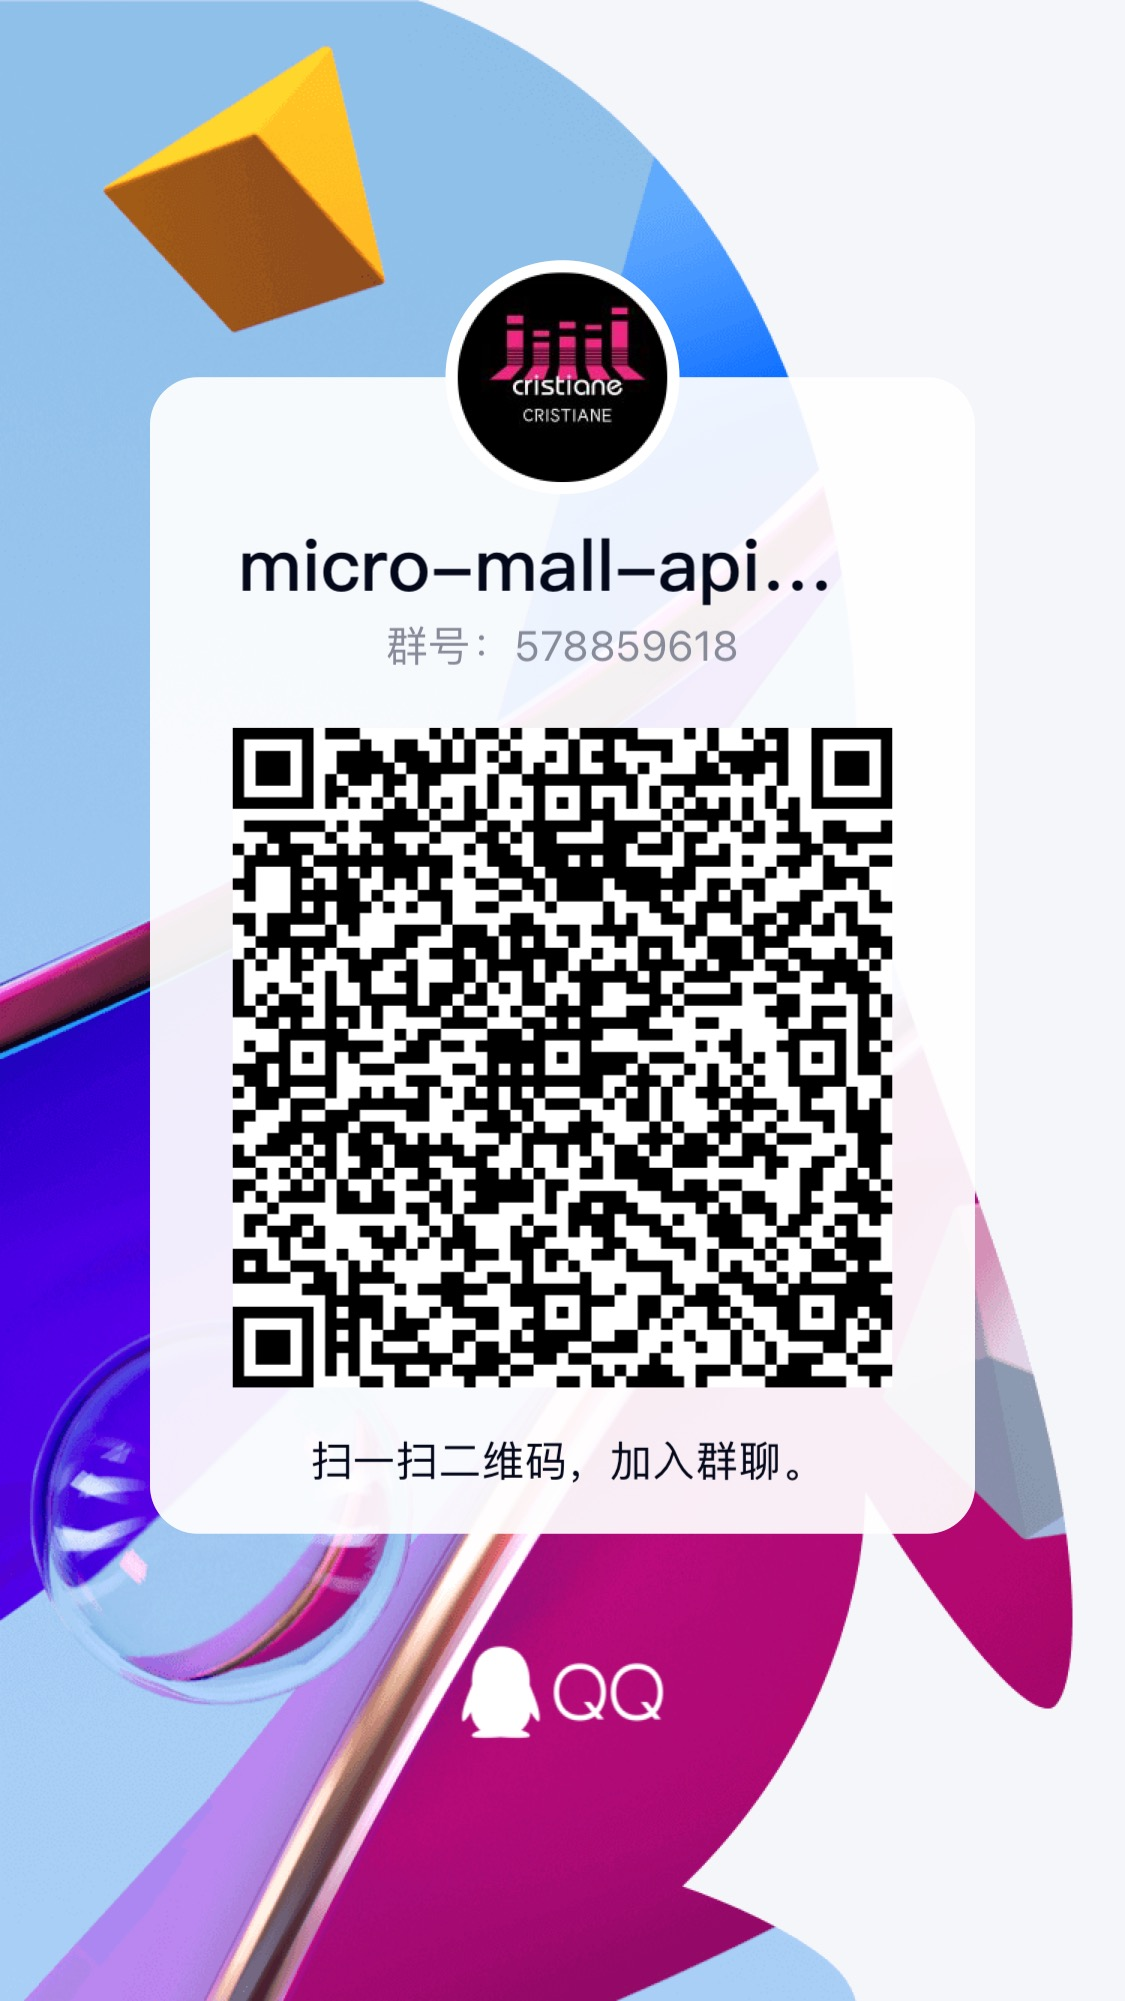
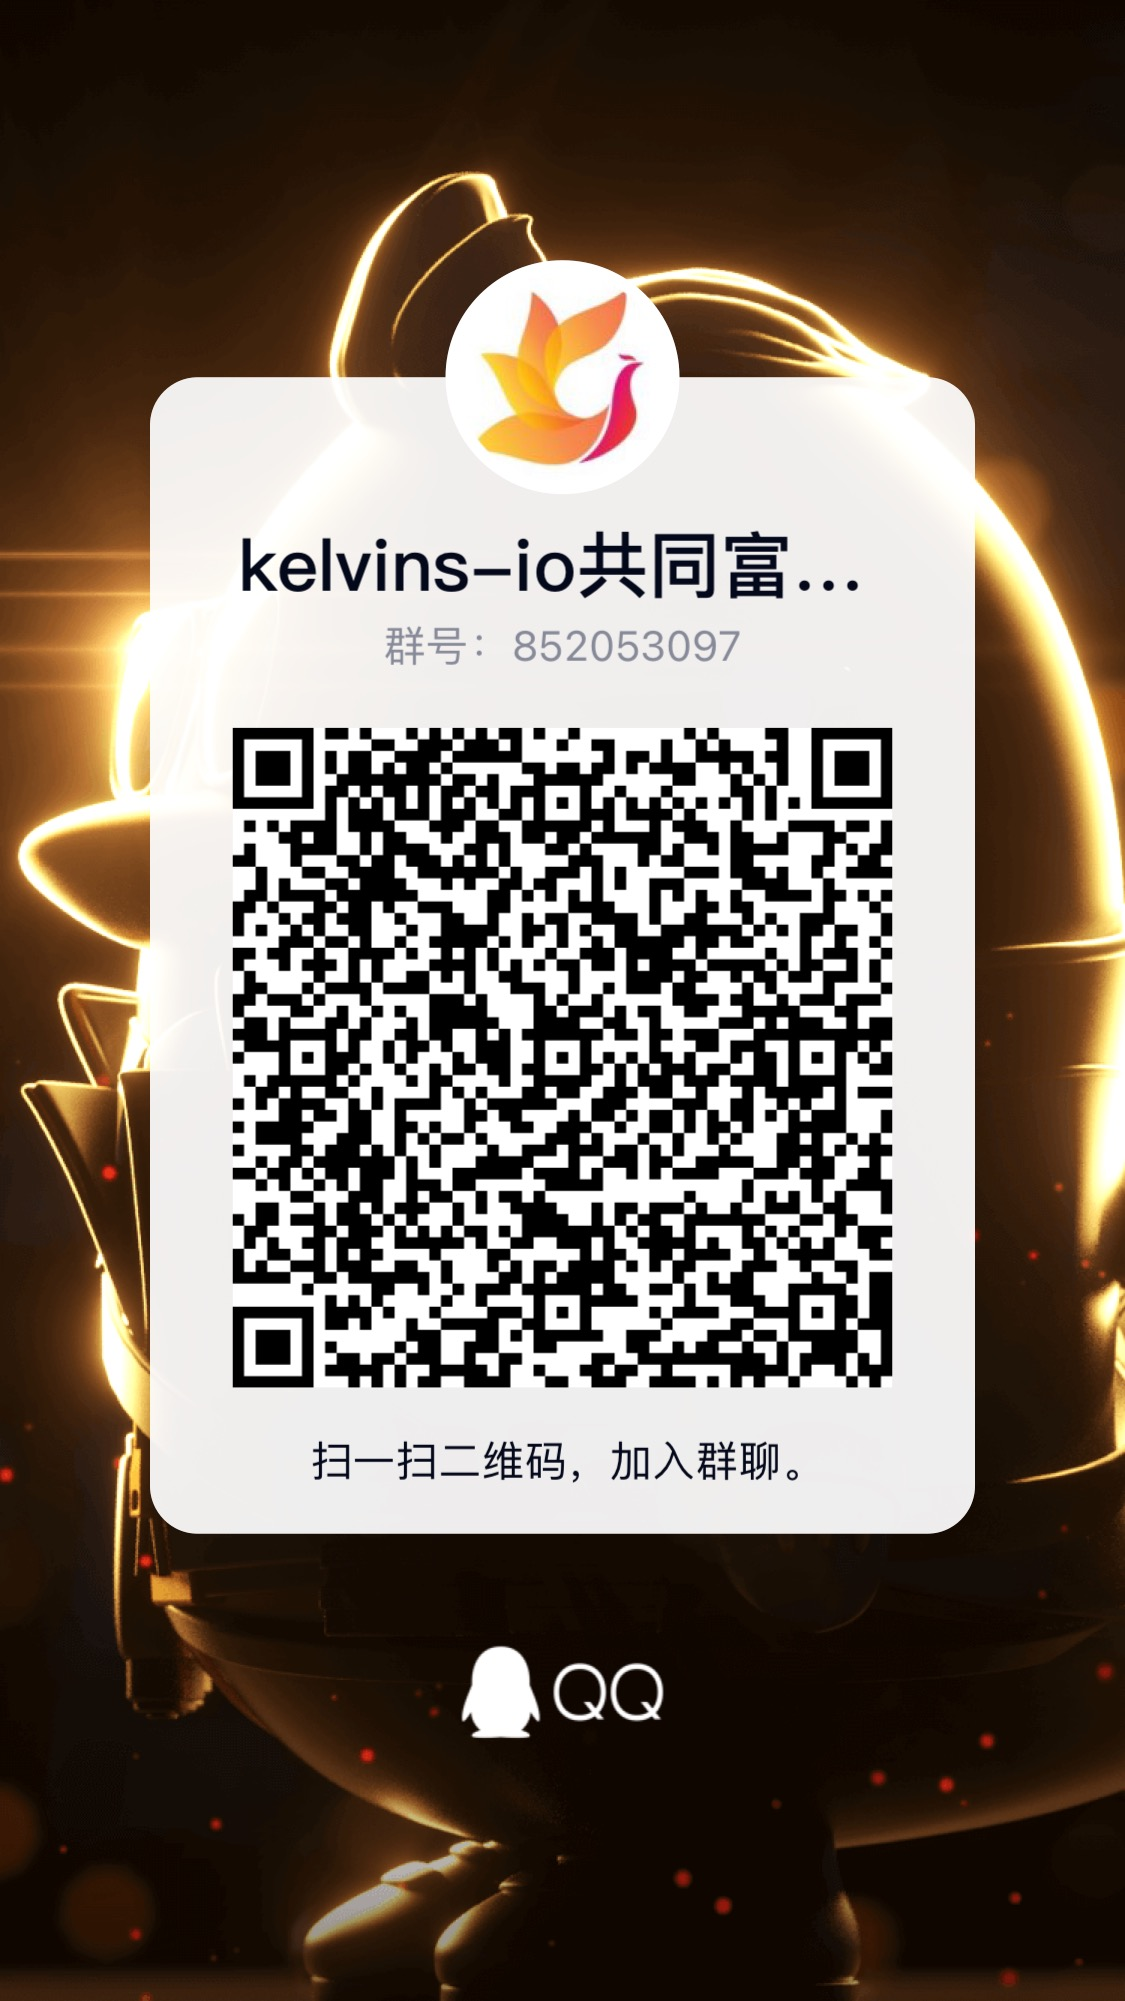
readme更新

diff --git a/README.md b/README.md
@@ -6,14 +6,35 @@ go/golang微服务框架
 ### 支持特性
 注册服务，发现服务，grpc/http gateway，cron，queue，http/gin服务，插拔式配置加载，双orm支持，mysql，mongo支持，事件总线，日志，异步任务池，   
 Prometheus/pprof监控，进程优雅重启，应用自定义配置，启动flag参数指定，应用hook，工具类（由kelvins-io/common支持），全局变量vars，   
-在线应用负载均衡，启动命令，RPC健康检查，接入授权，ghz压力测试tool，gRPC服务端&客户端参数配置
+在线应用负载均衡，启动命令，RPC健康检查，接入授权，ghz压力测试tool，gRPC服务端&客户端参数配置，kelvins-tools工具箱
 
 #### 即将支持
-限流，熔断，异常接入sentry，kelvins-tools工具箱（一键生成应用，运维部署等）
+限流，熔断，异常接入sentry
 
 ### 软件环境
 > go 1.13.15+
 
+rpc采用gRPC，如果使用请安装依赖库
+```shell
+protoc 安装方法如下
+wget https://github.com/google/protobuf/releases/download/v3.14.0/protobuf-all-3.14.0.zip
+unzip protobuf-all-3.14.0.zip
+cd protobuf-3.14.0/
+./configure
+make
+make install
+# 如果报错请执行
+ldconfig
+# grpc相关
+go get -u google.golang.org/grpc@v1.32.0
+go get -u google.golang.org/protobuf@v1.25.0
+go get -u github.com/golang/protobuf/protoc-gen-go@v.1.4.3
+go get -u github.com/grpc-ecosystem/grpc-gateway/protoc-gen-grpc-gateway@v1.14.3
+go get -u github.com/grpc-ecosystem/grpc-gateway/protoc-gen-swagger
+go get -u github.com/jteeuwen/go-bindata/...
+go get github.com/elazarl/go-bindata-assetfs/...
+python 2.7或3.5
+```
 ### 运行环境变量
 etcd集群地址   
 ETCDV3_SERVER_URLS     
@@ -293,12 +314,12 @@ func main() {
 2021-8-13 | RPC健康检查 | https://gitee.com/cristiane | 支持使用grpc-health-probe等工具进行健康检查
 2021-8-14 | RPC接入授权-token | https://gitee.com/cristiane | RPC应用支持开启接入授权
 2021-8-14 | RPC-ghz压测试工具 | https://gitee.com/cristiane | 支持对RPC应用进行压力测试并输出报告
-2021-9-1 | 若干更新 | https://gitee.com/cristiane | rpc日志对齐&rpc server参数配置化&启动优化
+2021-9-~ | 若干更新 | https://gitee.com/cristiane | rpc日志对齐&rpc server参数配置化&启动优化
 
 ### 业务应用
 micro-mall-api系列共计16+个服务：https://gitee.com/cristiane/micro-mall-api
 
 ###技术交流
-QQ群：578859618   
+QQ群：852053097   
 ![avatar](./交流群.JPG)   
 邮件：1225807604@qq.com
